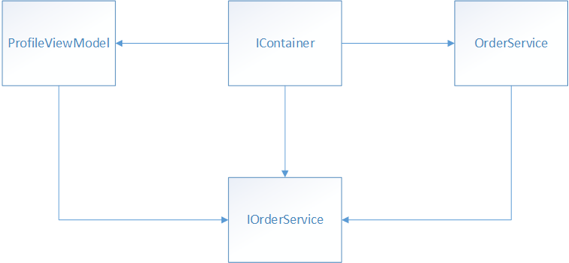
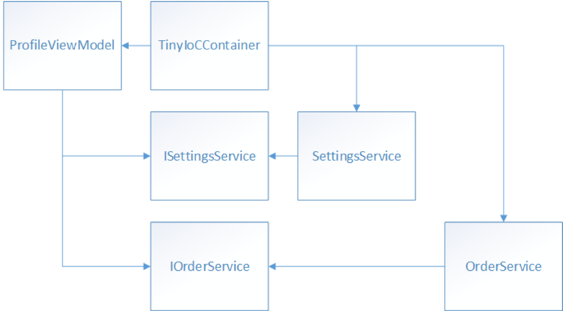
Replaced Autofac with TinyIoC.

Changed region(s): [[0.0, 0.0, 1.0, 1.0]]

diff --git a/docs/xamarin-forms/enterprise-application-patterns/dependency-injection.md b/docs/xamarin-forms/enterprise-application-patterns/dependency-injection.md
@@ -6,7 +6,7 @@ ms.assetid: a150f2d1-06f8-4aed-ab4e-7a847d69f103
 ms.technology: xamarin-forms
 author: davidbritch
 ms.author: dabritch
-ms.date: 08/07/2017
+ms.date: 11/04/2019
 ---
 
 # Dependency Injection
@@ -52,9 +52,9 @@ There are several advantages to using a dependency injection container:
 
 In the context of a Xamarin.Forms app that uses MVVM, a dependency injection container will typically be used for registering and resolving view models, and for registering services and injecting them into view models.
 
-There are many dependency injection containers available, with the eShopOnContainers mobile app using Autofac to manage the instantiation of view model and service classes in the app. Autofac facilitates building loosely coupled apps, and provides all of the features commonly found in dependency injection containers, including methods to register type mappings and object instances, resolve objects, manage object lifetimes, and inject dependent objects into constructors of objects that it resolves. For more information about Autofac, see [Autofac](https://autofac.readthedocs.io/en/latest/index.html) on readthedocs.io.
+There are many dependency injection containers available, with the eShopOnContainers mobile app using TinyIoC to manage the instantiation of view model and service classes in the app. TinyIoC was chosen after evaluating a number of different containers, and features superior performance on mobile platforms when compared to the majority of the well-known containers. It facilitates building loosely coupled apps, and provides all of the features commonly found in dependency injection containers, including methods to register type mappings, resolve objects, manage object lifetimes, and inject dependent objects into constructors of objects that it resolves. For more information about TinyIoC, see [TinyIoC](https://github.com/grumpydev/TinyIoC/wiki) on github.com.
 
-In Autofac, the `IContainer` interface provides the dependency injection container. Figure 3-1 shows the dependencies when using this container, which instantiates an `IOrderService` object and injects it into the `ProfileViewModel` class.
+In TinyIoC, the `TinyIoCContainer` type provides the dependency injection container. Figure 3-1 shows the dependencies when using this container, which instantiates an `IOrderService` object and injects it into the `ProfileViewModel` class.
 
 ![](dependency-injection-images/dependencyinjection.png "Dependencies example when using dependency injection")
 
@@ -82,60 +82,33 @@ There are two ways of registering types and objects in the container through cod
 > [!TIP]
 > Dependency injection containers are not always suitable. Dependency injection introduces additional complexity and requirements that might not be appropriate or useful to small apps. If a class does not have any dependencies, or is not a dependency for other types, it might not make sense to put it in the container. In addition, if a class has a single set of dependencies that are integral to the type and will never change, it might not make sense to put it in the container.
 
-The registration of types that require dependency injection should be performed in a single method in an app, and this method should be invoked early in the app's lifecycle to ensure that the app is aware of the dependencies between its classes. In the eShopOnContainers mobile app this is performed by the `ViewModelLocator` class, which builds the `IContainer` object and is the only class in the app that holds a reference to that object. The following code example shows how the eShopOnContainers mobile app declares the `IContainer` object in the `ViewModelLocator` class:
+The registration of types that require dependency injection should be performed in a single method in an app, and this method should be invoked early in the app's lifecycle to ensure that the app is aware of the dependencies between its classes. In the eShopOnContainers mobile app this is performed by the `ViewModelLocator` class, which builds the `TinyIoCContainer` object and is the only class in the app that holds a reference to that object. The following code example shows how the eShopOnContainers mobile app declares the `TinyIoCContainer` object in the `ViewModelLocator` class:
 
 ```csharp
-private static IContainer _container;
+private static TinyIoCContainer _container;
 ```
 
-Types and instances are registered in the `RegisterDependencies` method in the `ViewModelLocator` class. This is achieved by first creating a `ContainerBuilder` instance, which is demonstrated in the following code example:
+Types are registered in the `ViewModelLocator` constructor. This is achieved by first creating a `TinyIoCContainer` instance, which is demonstrated in the following code example:
 
 ```csharp
-var builder = new ContainerBuilder();
+_container = new TinyIoCContainer();
 ```
 
-Types and instances are then registered with the `ContainerBuilder` object, and the following code example demonstrates the most common form of type registration:
+Types are then registered with the `TinyIoCContainer` object, and the following code example demonstrates the most common form of type registration:
 
 ```csharp
-builder.RegisterType<RequestProvider>().As<IRequestProvider>();
+_container.Register<IRequestProvider, RequestProvider>();
 ```
 
-The `RegisterType` method shown here maps an interface type to a concrete type. It tells the container to instantiate a `RequestProvider` object when it instantiates an object that requires an injection of an `IRequestProvider` through a constructor.
+The `Register` method shown here maps an interface type to a concrete type. By default, each interface registration is configured as a singleton so that every dependent object receives the same shared instance. Therefore, only a single `RequestProvider` instance will exist in the container, which is shared by objects that require an injection of an `IRequestProvider` through a constructor.
 
 Concrete types can also be registered directly without a mapping from an interface type, as shown in the following code example:
 
 ```csharp
-builder.RegisterType<ProfileViewModel>();
+_container.Register<ProfileViewModel>();
 ```
 
-When the `ProfileViewModel` type is resolved, the container will inject its required dependencies.
-
-Autofac also allows instance registration, where the container is responsible for maintaining a reference to a singleton instance of a type. For example, the following code example shows how the eShopOnContainers mobile app registers the concrete type to use when a `ProfileViewModel` instance requires an `IOrderService` instance:
-
-```csharp
-builder.RegisterType<OrderService>().As<IOrderService>().SingleInstance();
-```
-
-The `RegisterType` method shown here maps an interface type to a concrete type. The `SingleInstance` method configures the registration so that every dependent object receives the same shared instance. Therefore, only a single `OrderService` instance will exist in the container, which is shared by objects that require an injection of an `IOrderService` through a constructor.
-
-Instance registration can also be performed with the `RegisterInstance` method, which is demonstrated in the following code example:
-
-```csharp
-builder.RegisterInstance(new OrderMockService()).As<IOrderService>();
-```
-
-The `RegisterInstance` method shown here creates a new `OrderMockService` instance and registers it with the container. Therefore, only a single `OrderMockService` instance exists in the container, which is shared by objects that require an injection of an `IOrderService` through a constructor.
-
-Following type and instance registration, the `IContainer` object must be built, which is demonstrated in the following code example:
-
-```csharp
-_container = builder.Build();
-```
-
-Invoking the `Build` method on the `ContainerBuilder` instance builds a new dependency injection container that contains the registrations that have been made.
-
-> [!TIP]
-> Consider an `IContainer` as being immutable. While Autofac provides an `Update` method to update registrations in an existing container, calling this method should be avoided where possible. There are risks to modifying a container after it's been built, particularly if the container has been used. For more information, see [Consider a Container as Immutable](https://docs.autofac.org/en/latest/best-practices/#consider-a-container-as-immutable) on readthedocs.io.
+By default, each concrete class registration is configured as a multi-instance so that every dependent object receives a new instance. Therefore, when the `ProfileViewModel` is resolved, a new instance will be created and the container will inject its required dependencies.
 
 <a name="resolution" />
 
@@ -149,21 +122,21 @@ Generally, when a type is resolved, one of three things happens:
 1. If the type has been registered as a singleton, the container returns the singleton instance. If this is the first time the type is called for, the container creates it if required, and maintains a reference to it.
 1. If the type hasn't been registered as a singleton, the container returns a new instance, and doesn't maintain a reference to it.
 
-The following code example shows how the `RequestProvider` type that was previously registered with Autofac can be resolved:
+The following code example shows how the `RequestProvider` type that was previously registered with TinyIoC can be resolved:
 
 ```csharp
-var requestProvider = _container.Resolve<IRequestProvider>();
+var requestProvider = _container.Resolve<IRequestProvider>();
 ```
 
-In this example, Autofac is asked to resolve the concrete type for the `IRequestProvider` type, along with any dependencies. Typically, the `Resolve` method is called when an instance of a specific type is required. For information about controlling the lifetime of resolved objects, see [Managing the Lifetime of Resolved Objects](#managing_the_lifetime_of_resolved_objects).
+In this example, TinyIoC is asked to resolve the concrete type for the `IRequestProvider` type, along with any dependencies. Typically, the `Resolve` method is called when an instance of a specific type is required. For information about controlling the lifetime of resolved objects, see [Managing the Lifetime of Resolved Objects](#managing_the_lifetime_of_resolved_objects).
 
 The following code example shows how the eShopOnContainers mobile app instantiates view model types and their dependencies:
 
 ```csharp
-var viewModel = _container.Resolve(viewModelType);
+var viewModel = _container.Resolve(viewModelType);
 ```
 
-In this example, Autofac is asked to resolve the view model type for a requested view model, and the container will also resolve any dependencies. When resolving the `ProfileViewModel` type, the dependency to resolve is an `IOrderService` object. Therefore, Autofac first constructs an `OrderService` object and then passes it to the constructor of the `ProfileViewModel` class. For more information about how the eShopOnContainers mobile app constructs view models and associates them to views, see [Automatically Creating a View Model with a View Model Locator](~/xamarin-forms/enterprise-application-patterns/mvvm.md#automatically_creating_a_view_model_with_a_view_model_locator).
+In this example, TinyIoC is asked to resolve the view model type for a requested view model, and the container will also resolve any dependencies. When resolving the `ProfileViewModel` type, the dependencies to resolve are an `ISettingsService` object and an `IOrderService` object. Because interface registrations were used when registering the `SettingsService` and `OrderService` classes, TinyIoC returns singleton instances for the `SettingsService` and `OrderService` classes and then passes them to the constructor of the `ProfileViewModel` class. For more information about how the eShopOnContainers mobile app constructs view models and associates them to views, see [Automatically Creating a View Model with a View Model Locator](~/xamarin-forms/enterprise-application-patterns/mvvm.md#automatically_creating_a_view_model_with_a_view_model_locator).
 
 > [!NOTE]
 > Registering and resolving types with a container has a performance cost because of the container's use of reflection for creating each type, especially if dependencies are being reconstructed for each page navigation in the app. If there are many or deep dependencies, the cost of creation can increase significantly.
@@ -172,26 +145,24 @@ In this example, Autofac is asked to resolve the view model type for a requested
 
 ## Managing the Lifetime of Resolved Objects
 
-After registering a type, the default behavior for Autofac is to create a new instance of the registered type each time the type is resolved, or when the dependency mechanism injects instances into other classes. In this scenario, the container doesn't hold a reference to the resolved object. However, when registering an instance, the default behavior for Autofac is to manage the lifetime of the object as a singleton. Therefore, the instance remains in scope while the container is in scope, and is disposed when the container goes out of scope and is garbage collected, or when code explicitly disposes the container.
+After registering a type using a concrete class registration, the default behavior for TinyIoC is to create a new instance of the registered type each time the type is resolved, or when the dependency mechanism injects instances into other classes. In this scenario, the container doesn't hold a reference to the resolved object. However, when registering a type using interface registration, the default behavior for TinyIoC is to manage the lifetime of the object as a singleton. Therefore, the instance remains in scope while the container is in scope, and is disposed when the container goes out of scope and is garbage collected, or when code explicitly disposes the container.
 
-An Autofac instance scope can be used to specify the singleton behavior for an object that Autofac creates from a registered type. Autofac instance scopes manage the object lifetimes instantiated by the container. The default instance scope for the `RegisterType` method is the `InstancePerDependency` scope. However, the `SingleInstance` scope can be used with the `RegisterType` method, so that the container creates or returns a singleton instance of a type when calling the `Resolve` method. The following code example shows how Autofac is instructed to create a singleton instance of the `NavigationService` class:
+The default TinyIoC registration behavior can be overridden using the fluent `AsSingleton` and `AsMultiInstance` API methods. For example, the `AsSingleton` method can be used with the `Register` method, so that the container creates or returns a singleton instance of a type when calling the `Resolve` method. The following code example shows how TinyIoC is instructed to create a singleton instance of the `LoginViewModel` class:
 
 ```csharp
-builder.RegisterType<NavigationService>().As<INavigationService>().SingleInstance();
+_container.Register<LoginViewModel>().AsSingleton();
 ```
 
-The first time that the `INavigationService` interface is resolved, the container creates a new `NavigationService` object and maintains a reference to it. On any subsequent resolutions of the `INavigationService` interface, the container returns a reference to the `NavigationService` object that was previously created.
+The first time the `LoginViewModel` type is resolved, the container creates a new `LoginViewModel` object and maintains a reference to it. On any subsequent resolutions of the `LoginViewModel`, the container returns a reference to the `LoginViewModel` object that was previously created.
 
 > [!NOTE]
-> The SingleInstance scope disposes created objects when the container is disposed.
-
-Autofac includes additional instance scopes. For more information, see [Instance Scope](https://autofac.readthedocs.io/en/latest/lifetime/instance-scope.html) on readthedocs.io.
+> Types that are registered as singletons are disposed when the container is disposed.
 
 ## Summary
 
 Dependency injection enables decoupling of concrete types from the code that depends on these types. It typically uses a container that holds a list of registrations and mappings between interfaces and abstract types, and the concrete types that implement or extend these types.
 
-Autofac facilitates building loosely coupled apps, and provides all of the features commonly found in dependency injection containers, including methods to register type mappings and object instances, resolve objects, manage object lifetimes, and inject dependent objects into constructors of objects it resolves.
+TinyIoC is a lightweight container that features superior performance on mobile platforms when compared to the majority of the well-known containers. It facilitates building loosely coupled apps, and provides all of the features commonly found in dependency injection containers, including methods to register type mappings, resolve objects, manage object lifetimes, and inject dependent objects into constructors of objects it resolves.
 
 ## Related Links
 
